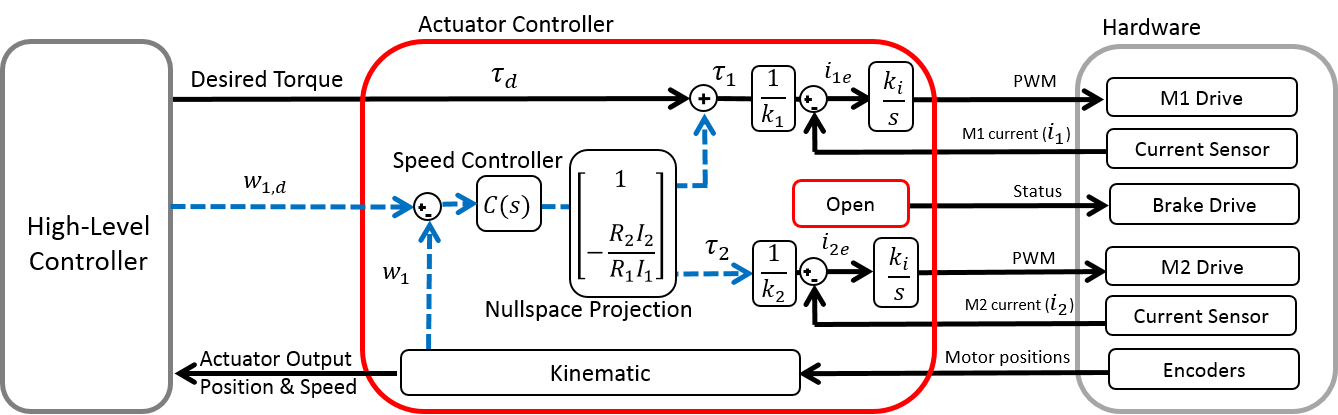
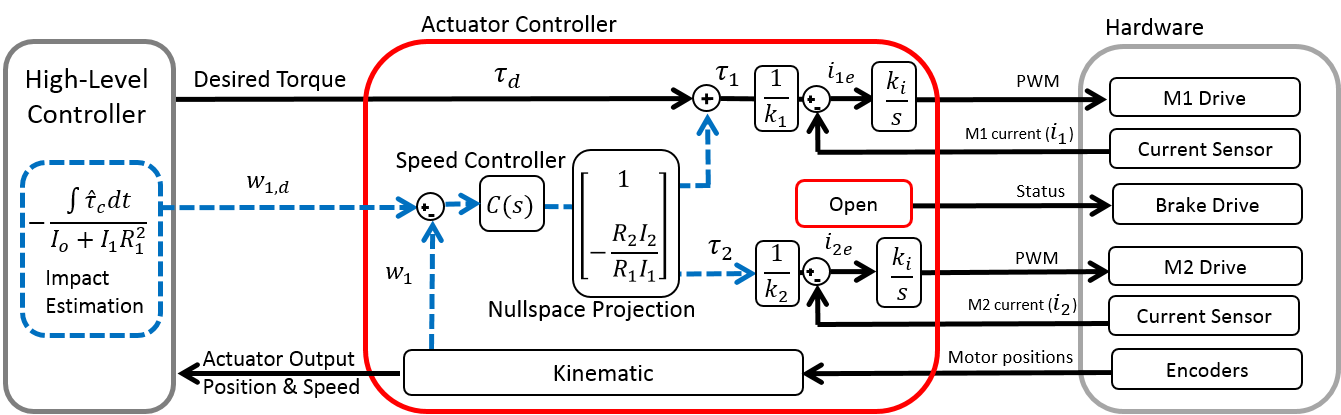
first draft impact dsdm control law

diff --git a/src/actuation.tex b/src/actuation.tex
@@ -462,6 +462,7 @@ Fig. \ref{fig:operatingmodes} illustrates the different discrete operating modes
 
 
 \subsubsection{Impacts}
+\label{sec:model_impact}
 
 During a contact, impulsive forces can create a sudden change of velocity. Hence, if a DSDM actuator is used on a robotic system making contact with objects, its internal velocities will suddenly change, as a function of the full dynamic of the robot and the contact situation:
 %
@@ -651,8 +652,8 @@ Hence, there is a one degree of freedom space of inputs $\tau_1$ and $\tau_2$ th
 \end{array} \right]
  = 
 \underbrace{\left[ \begin{array}{c}
-1 \\
--\frac{R_2 I_2}{R_1 I_1} 
+I_1 \\
+-\frac{R_2 }{R_1 }  I_2
 \end{array} \right]}_{\text{Nullspace Projection}} u
 \; \rightarrow \;
 I_T \dot{w}_o +
@@ -660,46 +661,12 @@ b_T  w_o = 0 \quad \forall u \in \Re
 \label{eq:dyn_null_proj}
 \end{align}
 
-\subsubsection{Impact Impulse}
 
 \subsection{Control algorithms}
 
 During high-force mode, the actuator behaves like a regular geared EM motor and standard speed or position control scheme can be used. During high-speed mode, with a small reduction ratio $R_1$ (high transparency transmission), the DSDM actuator can be controlled like a direct drive motor: controlling M1 current lead to almost direct control of the output torque. Moreover, exploiting the nullspace, a secondary objective can be brought into the system without influencing the output torque. In case the first motor is overloaded, for example, the second motor can reduce the load by projecting inputs through the null space, producing no effect upon the output, but changing the proportion of the two input commands. The secondary controller can be used not only for load balancing but also for minimizing power consumption, avoiding speed saturation of M1, etc. Note that the nullspace projection vector, see eq.\eqref{eq:dyn_null_proj}, depends only on parameters associated with the motors. Therefore, it is possible to project the secondary controller inputs on the output nullspace even if the output dynamic parameters that include the load inertia and damping are unknowns. 
 
 Fig. \ref{fig:HS_loop} and Fig. \ref{fig:HF_loop} show DSDM control algorithms implemented as intermediary control loops between hardware and high-level commands. The high-speed controller tracks a received desired torque by controlling the current in M1, and can also optionally track a secondary objective without affecting the main-loop, by projecting the secondary input into the nullspace of the main-loop. The high-force controller directly convert a received desired torque to a current set-point for M2.
-
-%The high-level robot controller, discussed in detail in Chapter \ref{sec:ControlAndPlanningOfRobotUsingVariableGearRatioActuators}, could be a simple PID for a single output system, a computed torque algorithm for a complex robots, etc. 
- 
-\begin{figure}[p]
-	\centering
-		\includegraphics[width=0.95\textwidth]{HF_ctl.png}
-	\caption{High-Force Mode Controller}
-	\label{fig:HF_loop}
-\end{figure}
-
-\begin{figure}[p]
-	\centering
-		\includegraphics[width=0.95\textwidth]{HS_ctl.png}
-	\caption{High-Speed Mode: Generic Controller}
-	\label{fig:HS_loop}
-\end{figure}
-
-\begin{figure}[p]
-	\centering
-		\includegraphics[width=0.95\textwidth]{down_ctl.png}
-	\caption{High-Speed Mode: Synchronization controller}
-	\label{fig:down_loop}
-\end{figure}
-
-\begin{figure}[p]
-	\centering
-		\includegraphics[width=0.95\textwidth]{imp_ctl.png}
-	\caption{High-Speed Mode: Impact Preparation Controller}
-	\label{fig:imp_loop}
-\end{figure}
-
-
-
 
 
 \subsubsection{Transitions (gear-shift)}
@@ -721,7 +688,7 @@ In this case, the transition is simple because the system goes from 1 DoF to 2 D
 \paragraph{Down-shift: From high-speed mode to high-force mode}
 In this case, the transition is harder because the system goes from 2 DoF to 1 DoF, and some synchronization work is needed. M1 speed $w_1$ must be brought to zero so that the locking brake can be engaged smoothly without any impact. Hence, as illustrated at Fig. \ref{fig:automaticflow}, when it is decided to engage high-force mode, and intermediary synchronization control mode is needed. Two algorithms, a kinematic and a dynamic approach, can be considered. 
 
-\paragraph{Kinematic algo}
+%\paragraph{Kinematic algo}
 The kinematic control aglorithm assumes local high gain velocity feedback controls for the individual motors. Hence velocities $w_1$ and $w_2$ can be treated as control inputs. Using the nullspace projection vector from eq.\eqref{eq:kinematicnullspace}, the kinematic control law can be written as 
 %
 \begin{align}
@@ -755,7 +722,7 @@ w_o = u_0 \quad \text{with} \quad w_1 = u_1
 %
 Therefore during transitions, using $u_1$ velocity $w_1$ can be driven to zero, while fully controlling the output velocity using $u_0$. The kinematic control law is valid only when high fidelity velocity controls are available. Alternatively the dynamic control algorithm does not require this. 
 
-\paragraph{Dynamic algo}
+%\paragraph{Dynamic algo}
 As illustrated in Fig. \ref{fig:down_loop}, while running the general high-speed controller, a braking law for $w_1$ can be used in parallel as the secondary controller projected on the output nullspace:
 \begin{align}
 \left[ \begin{array}{c}
@@ -764,8 +731,8 @@ As illustrated in Fig. \ref{fig:down_loop}, while running the general high-speed
 \end{array} \right]
  = 
 \underbrace{\left[ \begin{array}{c}
-1 \\
--\frac{R_2 I_2}{R_1 I_1} 
+I_1 \\
+-\frac{R_2 }{R_1 }  I_2
 \end{array} \right]}_{\text{Nullspace Projection}} \underbrace{-C w_1}_{\text{Braking Law}} + 
 \left[ \begin{array}{c}
 1 \\
@@ -773,13 +740,19 @@ As illustrated in Fig. \ref{fig:down_loop}, while running the general high-speed
 \end{array} \right]  \tau_d
 \label{eq:syncrhonization_ctl}
 \end{align}
-leads  to:
+leading to independent output dynamics controlled with $\tau_d$:
 \begin{align}
 I_T \dot{w}_o +
 b_T  w_o
-=& \, R_1 \tau_d  \quad \text{and} \quad \dot{w}_1 = -C w_1 + f(w_o,\tau_d) %\scriptstyle \frac{R_1 b_o}{I_T} \textstyle w_o
+=& \, R_1 \tau_d  
 \end{align}
-Hence, the output is not influenced by the braking law due to orthogonality, and is still controlled using the desired torque $\tau_d$ determined by the high-speed mode controller. On the other hand, $w_1$ is directly influenced by the braking law but also by the output speed and the desired output torque $\tau_d$. Mathematically, it would be possible to also fully uncouple $\dot{w}_1$ equation, but the control law would not be practical in the scenario of $R_1<<R_2$ when considering torque and speed saturations. Increasing the gain $C$ will lead to faster braking of $w_1$, however motor torque will saturate if the gain is too large. A large $C$ can still be used for faster braking at a cost of deviation from the desired torque $\tau_d$. There is a trade-off, passed the torque saturation point, between fast braking of $w_1$ for fast transition and high-fidelity output torque control.
+and a $w_1$ closed-loop dynamic converging exponentially to zero if the synchronization gain $C$ is large:
+\begin{align}
+ %\dot{w}_1 = -C w_1 + f(w_o,\tau_d) %\scriptstyle \frac{R_1 b_o}{I_T} \textstyle w_o
+ \dot{w}_1 = -C w_1 + \underbrace{\left[\frac{R_1^2}{I_T} + \frac{R_1^2 I_o}{R_2^2 I_2 I_T} \right] \tau_d - \left[\frac{R_1 b_o}{I_T}\right] w_o }_{\text{Undesirable coupling from main loop}}
+\end{align}
+
+Hence, the output is not influenced by the braking law due to orthogonality, and is still controlled using the desired torque $\tau_d$ determined by the high-speed mode controller. On the other hand, $w_1$ is directly influenced by the braking law but also by the output speed and the desired output torque $\tau_d$. Mathematically, it would be possible to also fully uncouple $\dot{w}_1$ equation, but the control law would not be practical in the scenario of $R_1<<R_2$ when considering torque and speed saturations. Increasing the gain $C$ will lead to faster braking of $w_1$, however motor torque will saturate if the gain is too large. A large synchronization gain $C$ can still be used for faster braking at a cost of deviation from the desired torque $\tau_d$. There is thus a trade-off in practice, passed the torque saturation point, between fast braking of $w_1$ for fast transition and high-fidelity output torque control. Also the synchronization gain can be a complex compensator, for instance a PI ( $C(s) = k_p + \frac{k_i}{s}$ ), for better rejection of disturbances coming from the main loop coupling. 
 
 
 
@@ -788,8 +761,8 @@ Hence, the output is not influenced by the braking law due to orthogonality, and
 This section described a control scheme where the velocity of the internal DoF is adjusted beforehand when an impact is expected, so that impact forces bring M1 velocity close to zero, allowing for fast down-shift transitions. This is aimed at situation like a leg approaching the ground with high-speed mode, then making contact with the ground and transitioning to high-force mode to bear the weight of the robot.
 
 
-\paragraph{Kinematic algo}
-Rearranging the results to express the two variable of interest (approaching speed $w_0^-$ and M1 velocity after the impact $w_1^+$) lead to:
+%\paragraph{Kinematic algo}
+Rearranging the results of section \ref{sec:model_impact} to express the two variables of interest (approaching speed $w_0^-$ and M1 velocity after the impact $w_1^+$), as a function of controllable inputs (from a kinematic point of view), lead to:
 %
 \begin{align}
 \left[ \begin{array}{c} w_0^- \\ w_1^+ \end{array} \right] &= \Bigg[ \begin{array}{c c} \frac{1}{R_1} & \frac{1}{R_2}\\ 1 & 0 \end{array} \Bigg] \left[ \begin{array}{c} w_1^- \\ w_2^- \end{array} \right] + \left[ \begin{array}{c} 0 \\ R_1 \frac{\int{\tau_c dt}}{I_o + I_1 R_1^2} \end{array} \right]
@@ -810,17 +783,18 @@ leading to
  w_o^- = u_0 \quad \text{and} \quad w_1^+ = u_1
 \end{align}
 %
-Therefore, if expected an impact and can predict the impulsive reaction $\int{\tau_c dt}$, using this control law lead to independent control of the approaching speed of the actuator output $w_o^-$, which would be used for the primary objective (for instance making contact with the object at the right place and time), and resulting velocity of M1 after the impact $w_1^+$, which would be set to zero to allow for instantaneous down-shift.
+Therefore, if an impact is expected and the upcoming impulsive impact reaction $\int{\tau_c dt}$ can be computed, using this control law lead to independent control of the approaching speed of the actuator output $w_o^-$, which would be used for the primary objective (for instance making contact with the object at the right place and time), and resulting velocity of M1 after the impact $w_1^+$, which would be set to zero to allow for instantaneous down-shift.
 
-\paragraph{Dynamic algo}
-The proposed control algorithm is as follow. When an impact is expected during high-speed mode, estimate the expected the drop in velocity for the actuator using a collision model considering the full robot dynamic, then assign the negative of the estimated speed drop as a velocity set-point for M1:
+%\paragraph{Dynamic algo}
+%
+Alternatively, as for the braking law used for synchronization during the down-shift process, this problem can be approached from a dynamic point of view. As shown in the last section, the ideal desired velocity for M1 is a function of the expected impulsive contact reaction:
 %
 \begin{align}
-w_{1,d}  = -\hat{f}_{imp}( \vec{q} , \vec{\dot{q}}^- , J_c ) 
+w_{1,d}  = - R_1 \frac{\int{\tau_c dt}}{I_o + I_1 R_1^2}
 \label{eq:dsdm_impact_gen_delta_w1}
 \end{align}
 %
-Then, using the optional secondary objective loop of the high-speed mode controller, track this velocity set-point in the nullspace, similarly to the synchronization controller of eq. \eqref{eq:syncrhonization_ctl} but with a non-zero set-point:
+Then, while using the regular high-speed controller to control the output, the secondary objective loop can be used to track M1 velocity set-point $w_{1,d}$ in the nullspace. This is analogous to the synchronization controller of eq. \eqref{eq:syncrhonization_ctl} but with a non-zero set-point for M1:
 %
 \begin{align}
 \left[ \begin{array}{c}
@@ -838,14 +812,54 @@ Then, using the optional secondary objective loop of the high-speed mode control
 \end{array} \right]  \underbrace{ \tau_d }_{\text{Main Loop}}
 \end{align}
 %
-If the velocity controller is able to perfectly track the velocity set-point and the collision is perfectly predicted, then immediately after the impact, M1 velocity will be zero:
+As discussed before, this will lead to independent output dynamics controlled with $\tau_d$:
+\begin{align}
+I_T \dot{w}_o +
+b_T  w_o
+=& \, R_1 \tau_d  
+\end{align}
+and a $w_1$ closed-loop dynamic converging exponentially to $w_{1,d}$ if the synchronization gain $C$ is large:
+\begin{align}
+ %\dot{w}_1 = -C w_1 + f(w_o,\tau_d) %\scriptstyle \frac{R_1 b_o}{I_T} \textstyle w_o
+ \dot{w}_1 = C \left( w_{1,d} - w_1 \right) + \underbrace{\left[\frac{R_1^2}{I_T} + \frac{R_1^2 I_o}{R_2^2 I_2 I_T} \right] \tau_d - \left[\frac{R_1 b_o}{I_T}\right] w_o }_{\text{Undesirable coupling from main loop}}
+\end{align}
+
+If the velocity controller is able to track the velocity set-point and the collision is perfectly predicted, then immediately after the impact, M1 velocity will be zero:
 %
 \begin{align}
-w_1^+ =  w_1^- + \Delta w_1 = f_{imp}( \vec{q} , \vec{\dot{q}}^- , J_c ) -\hat{f}_{imp}( \vec{q} , \vec{\dot{q}}^- , J_c ) \approx 0
+w_1^+ =  w_1^- + \Delta w_1 = w_{1,d}  + R_1 \frac{\int{\tau_c dt}}{I_o + I_1 R_1^2} \approx 0
 \label{eq:dsdm_impact_vel}
 \end{align}
 %
-Hence, it would be possible to engaged the brake and switch to high-force mode almost instantaneously. In practice, because of speed saturation it won't always be possible to perfectly track the desired speed in the nullspace. However, by running this control scheme and bringing $w_1^+$ as close as possible to zero,  faster gear-shift will still be achieved because synchronization error will be smaller at the start of the down-shift process.
+Hence, it would be possible to engaged the brake and switch to high-force mode almost instantaneously. In practice, because of speed saturation it won't always be possible to perfectly track the desired speed $w_{1,d}$ in the nullspace, or to perfectly predict the contact impulse $\int{\tau_c dt}$. However, by running this control scheme and bringing $w_1^+$ as close as possible to zero, gear-shift will nonetheless be achieved faster because synchronization error will be smaller at the start of the down-shift process.
+
+\begin{figure}[p]
+	\centering
+		\includegraphics[width=0.95\textwidth]{HF_ctl.png}
+	\caption{High-Force Mode Controller}
+	\label{fig:HF_loop}
+\end{figure}
+
+\begin{figure}[p]
+	\centering
+		\includegraphics[width=0.95\textwidth]{HS_ctl.png}
+	\caption{High-Speed Mode: Generic Controller}
+	\label{fig:HS_loop}
+\end{figure}
+
+\begin{figure}[p]
+	\centering
+		\includegraphics[width=0.95\textwidth]{down_ctl.png}
+	\caption{High-Speed Mode: Synchronization controller}
+	\label{fig:down_loop}
+\end{figure}
+
+\begin{figure}[p]
+	\centering
+		\includegraphics[width=0.95\textwidth]{imp_ctl.png}
+	\caption{High-Speed Mode: Impact Preparation Controller}
+	\label{fig:imp_loop}
+\end{figure}
 
 
 
